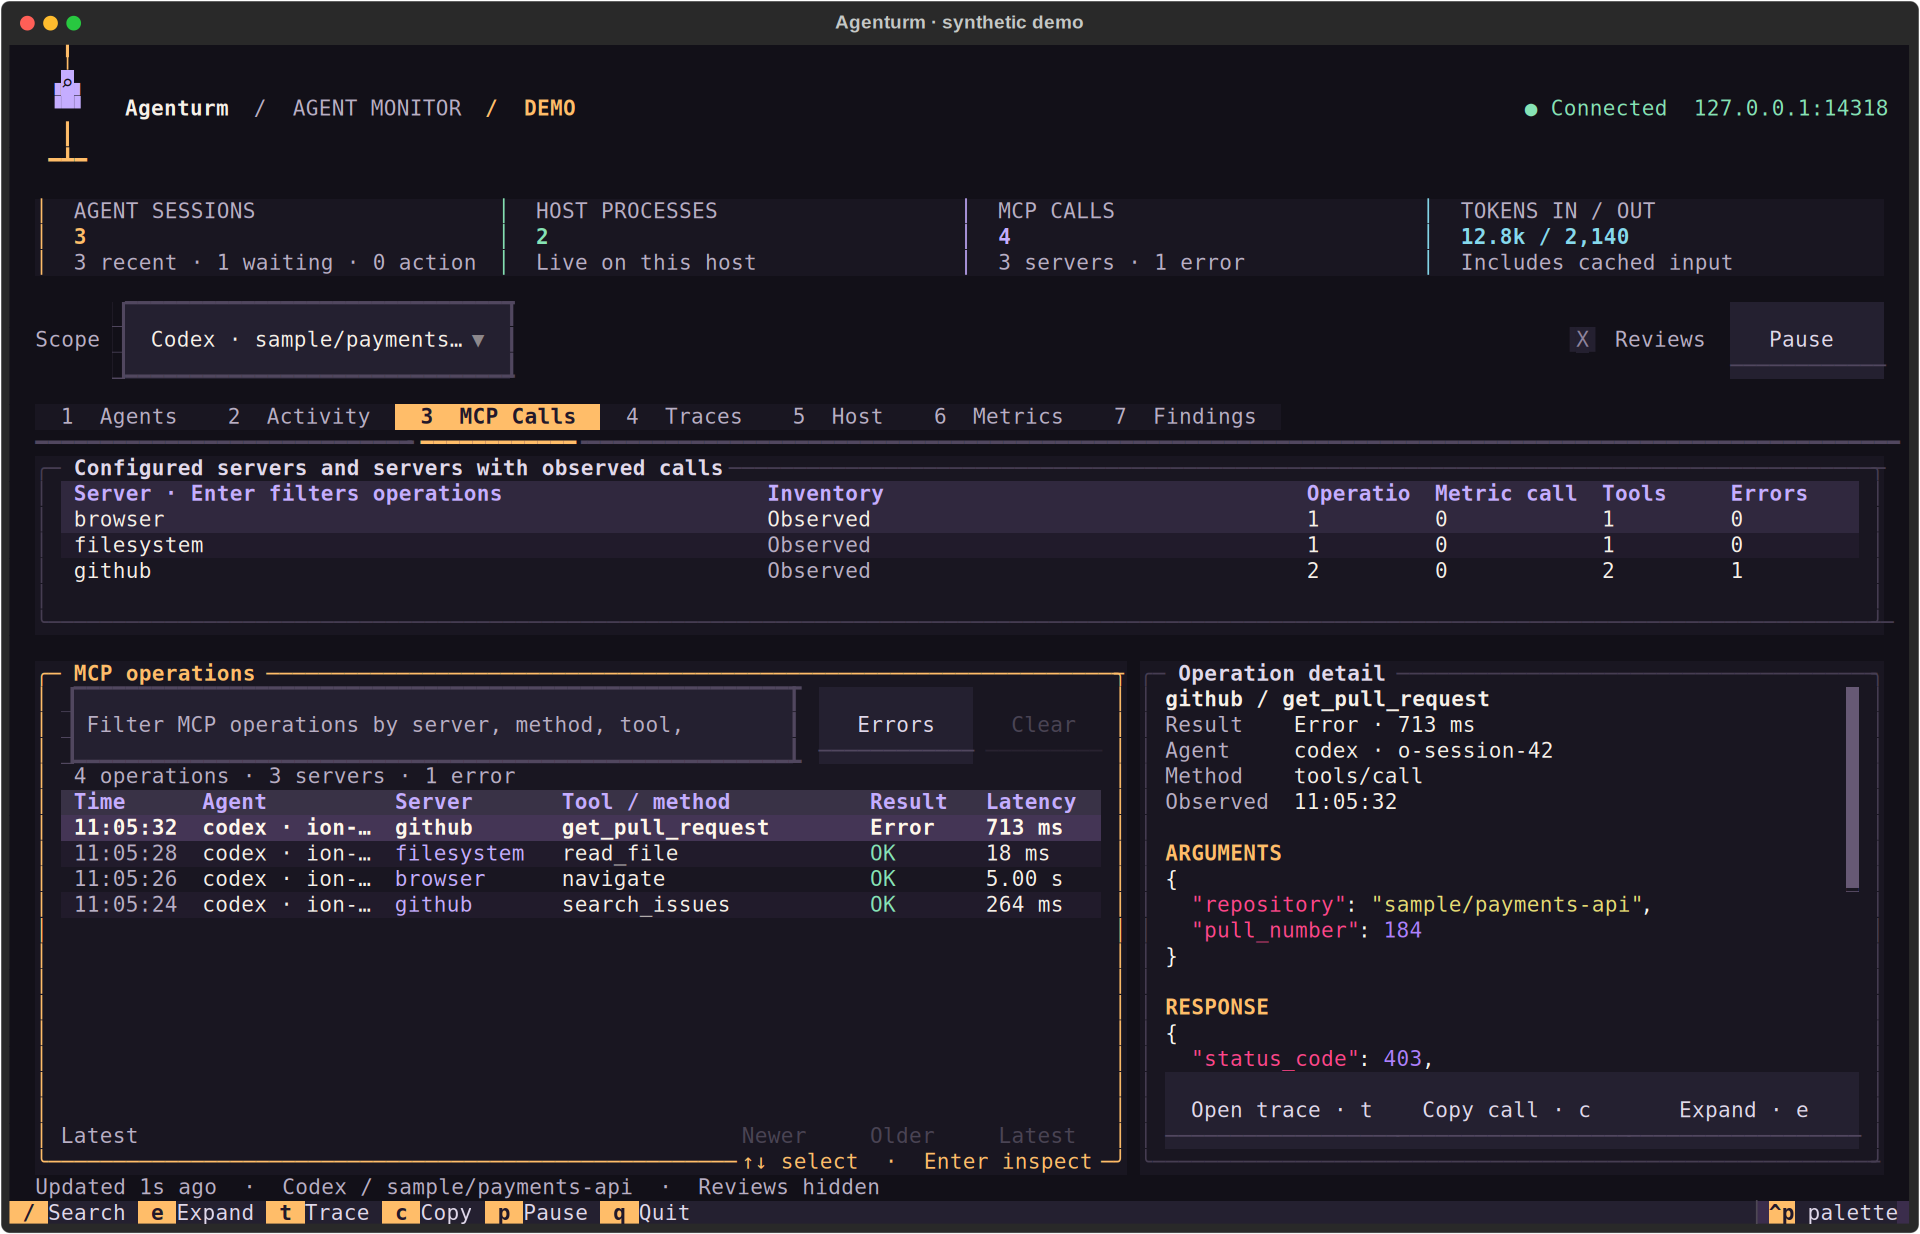
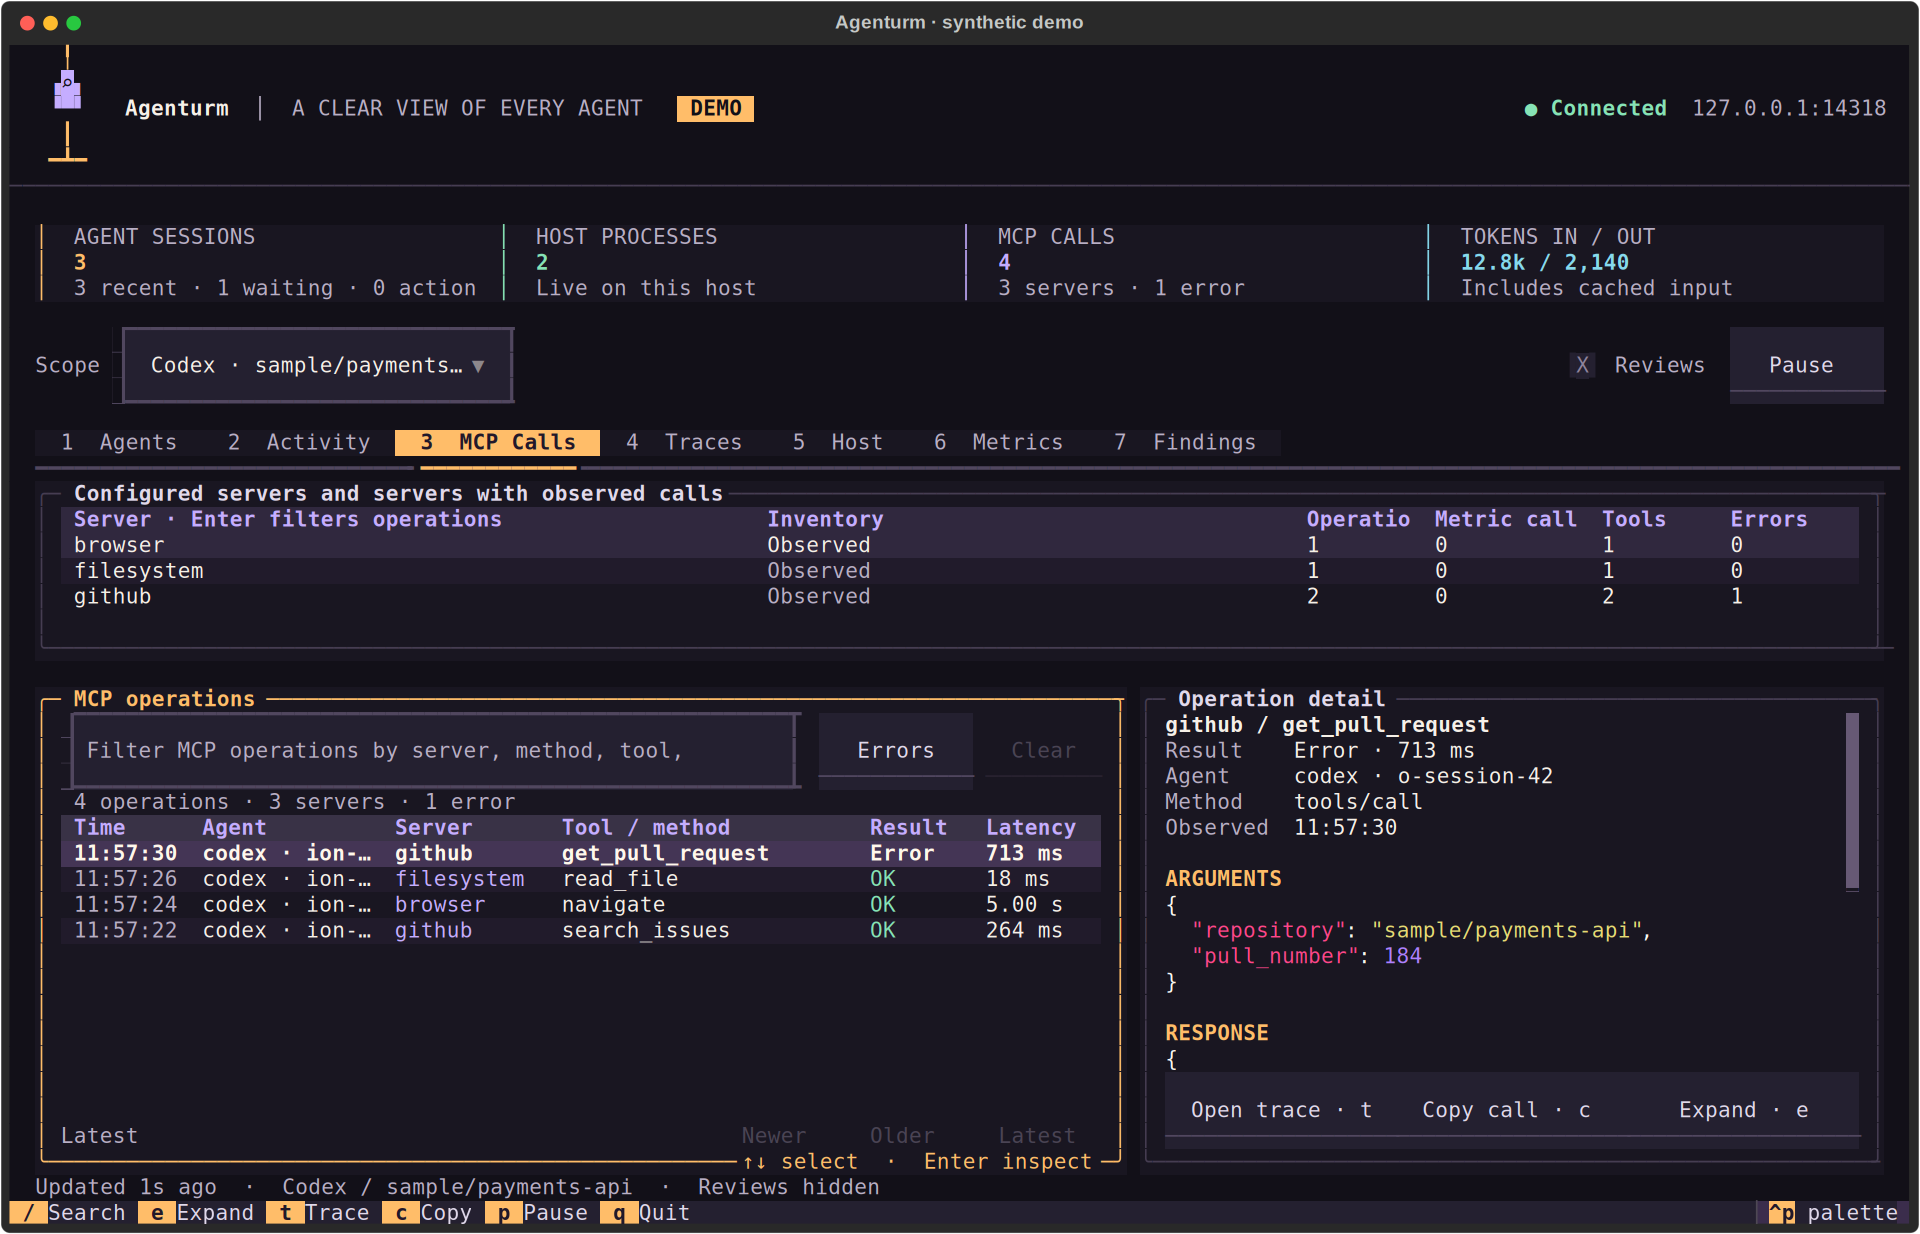
Refresh the terminal masthead with a bolder identity
Lead with the tower mark and a bold Agenturm wordmark, add the uppercase
tagline and a filled DEMO badge, enrich the connection status, and
separate the header from the summary with a quiet rule. Regenerate the
screenshots and README animation so the documented UI matches.

diff --git a/observatory/terminal_ui.py b/observatory/terminal_ui.py
@@ -644,7 +644,7 @@ class ObservatoryApp(App):
     Screen { background: $agent-canvas; color: $agent-text; }
     Screen > .screen--selection { background: $agent-selection; color: $agent-on-selection; }
     * { scrollbar-color: $agent-scrollbar; scrollbar-color-hover: $agent-secondary; scrollbar-color-active: $agent-primary; scrollbar-background: $agent-surface; scrollbar-background-hover: $agent-surface; scrollbar-background-active: $agent-surface; }
-    #masthead { height: 5; padding: 0 2; align-vertical: middle; background: $agent-canvas; }
+    #masthead { height: 6; padding: 0 2; align-vertical: middle; background: $agent-canvas; border-bottom: solid $agent-border-subtle; }
     #tower { width: 5; height: 5; margin-right: 2; }
     #brand { width: 1fr; height: 1; margin-top: 2; color: $agent-text; text-wrap: nowrap; }
     #connection { width: auto; max-width: 50%; height: 1; margin-top: 2; color: $agent-success; text-align: right; text-wrap: nowrap; text-overflow: ellipsis; }
@@ -750,7 +750,7 @@ class ObservatoryApp(App):
     .small #summary { height: 6; grid-size: 2; }
     .small #connection { max-width: 40%; }
     .small #pause { width: 9; }
-    .compact #masthead { height: 1; }
+    .compact #masthead { height: 1; border-bottom: none; }
     .compact #tower { height: 1; }
     .compact #brand, .compact #connection { margin-top: 0; }
     .compact #summary { height: 2; margin: 1 1 0 1; grid-rows: 2; }
@@ -1048,12 +1048,17 @@ class ObservatoryApp(App):
         # Timer messages can already be queued when child widgets unmount.
         if not self.query('#health'):return
         data=self.feed.snapshot
-        connection='Ⅱ Paused' if self.feed.paused else '○ Reconnecting' if data.error else '● Connected'
+        state='Paused' if self.feed.paused else 'Reconnecting' if data.error else 'Connected'
+        state_color='#ffbd69' if self.feed.paused else '#ff8799' if data.error else '#86e3b5'
         endpoint=self.feed.api.endpoint.removeprefix('http://').removeprefix('https://')
         connection_widget=self.query_one('#connection',Static)
-        connection_widget.tooltip=connection+' · '+endpoint
-        connection_widget.update(themed_text(connection_widget,Text(connection+('  '+endpoint if self.size.width>=120 else ''),
-            style='#ffbd69' if self.feed.paused else '#ff8799' if data.error else '#86e3b5')))
+        connection_widget.tooltip=state+' · '+endpoint
+        connection=Text()
+        connection.append('● ', style='bold '+state_color)
+        connection.append(state, style='bold '+state_color)
+        if self.size.width>=120:
+            connection.append('  '+endpoint, style='#b9afc5')
+        connection_widget.update(themed_text(connection_widget,connection))
         health_text=(data.error if data.error else
             f"{'Display paused' if self.feed.paused else 'Updated '+age(int(data.updated*1e9))}  ·  {self.scope_label()}  ·  {'Reviews included' if self.feed.include_reviews else 'Reviews hidden'}")
         coverage=coverage_warning(data.local_status)

diff --git a/observatory/branding.py b/observatory/branding.py
@@ -30,7 +30,9 @@ def masthead(demo=False, compact=False):
     """Keep the wordmark on one line; the tower has its own bounded widget."""
     text = Text("Agenturm", style=f"bold {FROST}")
     if not compact:
-        text.append("  /  AGENT MONITOR", style=f"not bold {MUTED}")
+        text.append("  │  ", style=MUTED)
+        text.append("A CLEAR VIEW OF EVERY AGENT", style=f"not bold {MUTED}")
     if demo:
-        text.append("  /  DEMO", style=AMBER)
+        text.append("   ", style=MUTED)
+        text.append(" DEMO ", style=f"bold #121018 on {AMBER}")
     return text

diff --git a/docs/branding.md b/docs/branding.md
@@ -44,8 +44,10 @@ space around it. At small sizes, use the mark without a wordmark.
 Use color to support text, never as the sole status indicator. Focus remains
 visible through borders and selected rows. The identity is static: no flashing
 logo or decorative loading animation. The terminal uses a five-column, five-row
-block-and-line tower in its own bounded widget beside the single-line **Agenturm** wordmark.
-Short terminals use a one-line mark. No image protocols, emoji rendering, or Nerd
+block-and-line tower in its own bounded widget beside a bold, single-line
+**Agenturm** wordmark, a slim divider, and the uppercase tagline. Demo mode adds
+a filled amber **DEMO** badge. Short terminals use a one-line mark and drop the
+tagline. No image protocols, emoji rendering, or Nerd
 Font is required. Below 100 columns, summary cards form two rows; longer explanations
 live in tooltips rather than running off the edge of a card.
 The terminal mark has no background tile: it uses the active terminal canvas.
